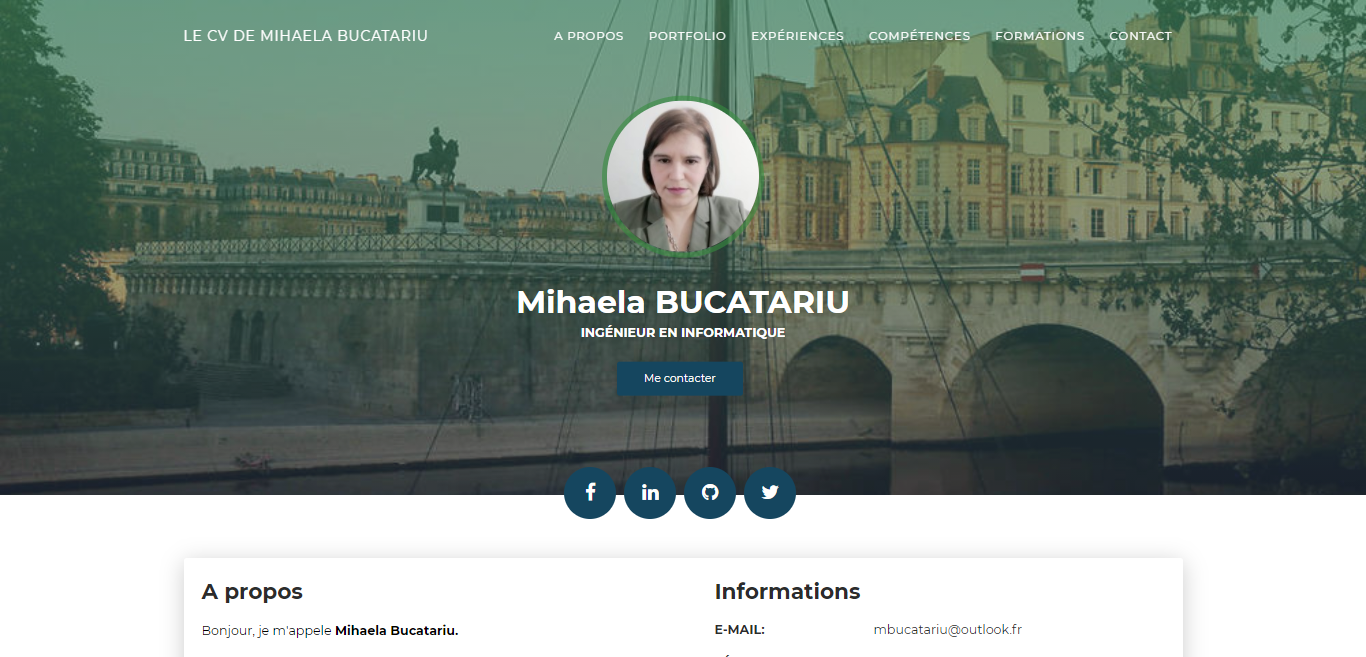
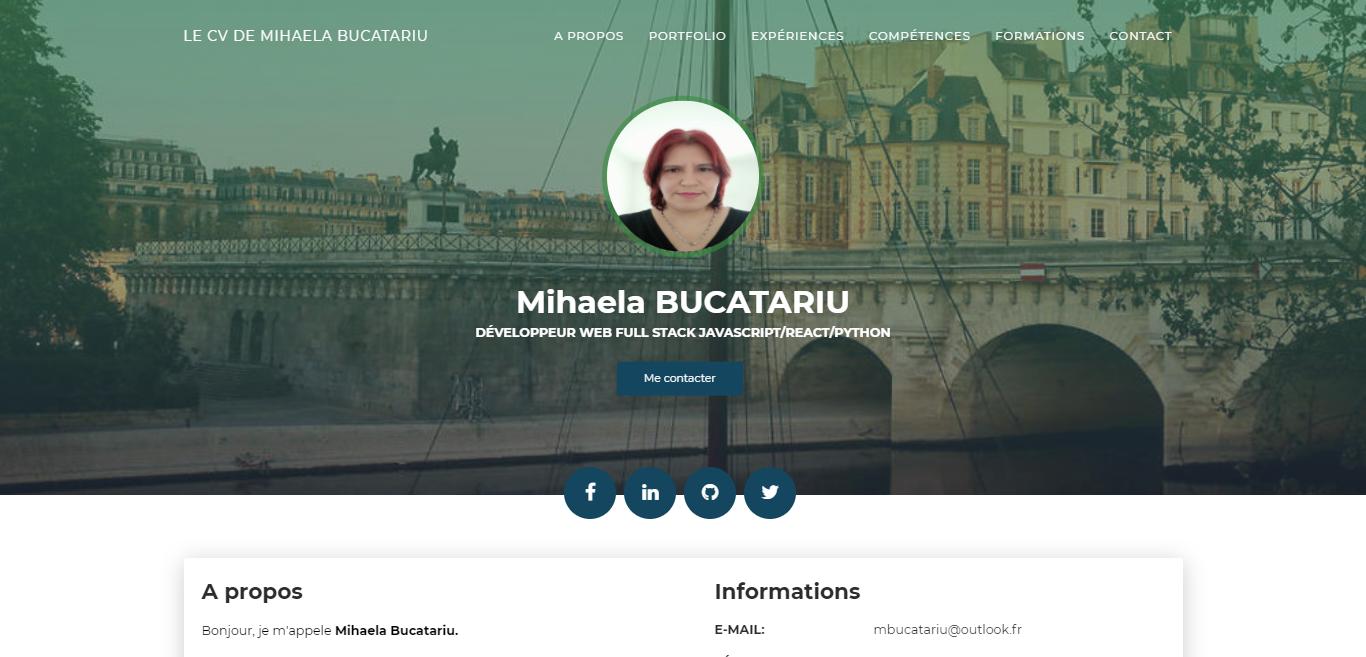
Version 2

diff --git a/src/app/profile/mock-experiences.ts b/src/app/profile/mock-experiences.ts
@@ -1,46 +1,34 @@
 import { Experience } from './experience';
 
 export const EXPERIENCES: Experience[] = [
-  { period: "Mai 2020 à octobre 2020 ",
-    societe: "Independent",
-    job: "Independent",
+  { period: "Mai 2020 à novrmbre 2020 ",
+    societe: "Indépendant",
+    job: "Indépendant",
     description:
-    `J'ai travaillé indépendamment et je me suis autoformé sur des sujets variés comme:
-    Le développement Web avec le framework Django en langage Python.
-    Le développement Web Full-Stack JavaScript
-    Le langage C++ Moderne (C++11/14/17)
-    Les Fondements du Cloud Computing (Amazon Web Services AWS)
-    Le big data avec Hadoop
-    La conteneurisation (Docker)
-    J'ai suivi des tutoriels et des cours de e-learning sur les plateformes de Udemy, LinkedIn Learning, OpenClassrooms et AWS Training.
-    Développeur Web fullstack Python, framework Django
-    Développement d'une application Web fullstack Python (en cours).
-    Entraînement en Python sur CodingGame.com
-    Environnement :
-    Python/ Django/ Pandas/ Numpy
-    PyCharm
-    Anaconda
-    Jupyter Notebook
-    Visual Studio Code
-    Développeur Web Full-Stack JavaScript - MEAN stack
-    Développement Full-Stack d'une site Web (en cours)
-    Côté backend
-    Express
-    Node.js
-    MongoDB
-    API Rest, tests avec Postman
-    Déploiement sur Heroku
-    Côté frontend
-    Angular 9
-    Bootstrap 4
-    HTML5, CSS3
+    `
+    * Développeur Web full stack JavaScript-MERN stack
+    * Développement full-stack d'une site Web: AlbumPhoto. L'application permet la visualisation d'une collection des photos, et la mise à jour de la collection (ajout, suppression, modification). Elle est basée sur React et des API Rest avec Node.js (opérations CRUD). Les routes sont sécurisées avec Auth0/JWT (en cours).
+    Technologies utilisées :
+    Côté backend : Node.js, Express, Mongoose, MongoDB
+    Import des images avec Multer
+    Authentification avec Auth0 JWT
+    Tests avec Postman
+    Côté frontend : React, Bootstrap4, HTML5, CSS3
+    Autoformation en ligne sur JavaScript, React, Node.js.
+    Lien GitHub: https://github.com/mike507/card-javascript-fullstack-app
 
-    AWS cloud computing enthusiast
-    J’ai suivi en anglais, en ligne sur AWS Training et LinkedIn, des modules sur:
-    AWS Cloud Practitioner Essentials: AWSSecurity, AWS Core Services, AWS Architecture
-    AWS EC2, Amazon ECS, DynamoDB, Amazon SNS, Amazon SQS, AWS Fargate
-    J’ai participé au webinar AWS Cloud Practitioner Essentials Day
-    Je me suis créé un compte AWS Console et j'ai me suis entrainé à l'utilisation des services AWS.
+    * Développement de mon site Web Portfolio, avec Angular et déployé avec GitHub Pages,
+    Live sur: https://mike507.github.io/Mihaela-Personal-Portofolio-Angular
+    Lien GitHub: https://github.com/mike507/card-javascript-fullstack-app
+
+    * Développeur Python
+    Entraînement en Python sur CodingGame.com
+    Autoformation en ligne
+    Environnement :
+    Python, PyCharm, Anaconda, Jupyter Notebooks, Visual Studio Code
+
+    * AWS cloud computing enthousiaste
+    J’ai suivi en anglais, en ligne, sur Udemy et AWS Training and Certifications, des modules sur AWS Cloud Practitioner Essentials: AWSSecurity, AWS Core Services, AWS Architecture.
     ` },
 
     { period: "Mars 2020 à avril 2020",

diff --git a/src/app/profile/about/about.component.html b/src/app/profile/about/about.component.html
@@ -6,22 +6,34 @@
             <div class="card-body">
               <div class="h4 mt-0 title">A propos</div>
               <p>Bonjour, je m'appele <strong>Mihaela Bucatariu.</strong></p>
-              <p>Je suis ingénieur informaticien à l'écoute des opportunités du marché</p>
-
+              <p>Je suis de formation ingénieur en informatique, j'ai de l'expérience en C++ et SQL.</p>
               <p>
-                Je suis quelqu’un passionnée par l’informatique et par les dernières évolutions technologiques.
-                J'ai 16 ans d'expérience en développement de logiciel (en C++ et bases de données Oracle PL/SQL).
+                En 2019, j'ai décidé de me spécialiser en développement Web, par auto-formation. J'ai suivi des formations en ligne sur Udemy et LinkedIn Learning.
               </p>
-              <p> Ma curiosité naturelle m’a déterminé à étudier en ligne des sujets variés comme:</p>
+              <p>
+                J'ai réalisé deux applications Web : AlbumPhoto: application full stack JavaScript, basée sur React et NodeJs et PersonalPortfolio, une application type curriculum-vitae, réalisé avec Angular. Elles sont disponibles sur mon compte GitHub et des démonstrations vidéo peuvent être visionnées sur ma chaine YouTube.
+              </p>
+              <p>
+                GitHub: https://github.com/mike507
+              </p>
               <ul>
-
-                <li>le développement Web avec le framework Django (et le langage Python)</li>
-                <li>le développement Web Full-Stack JavaScript (MEAN stack: MongoDB, Express.js, Node.js, Angular)</li>
-                <li>le cloud computing avec Amazon Web Services (AWS)</li>
-                <li>le big data avec Hadoop et Apache Spark</li>
+                <li>
+                  <p>
+                    AlbumPhoto: https://github.com/mike507/card-javascript-fullstack-app
+                  </p>
+                  <p>
+                    https://youtu.be/RA27bj7DXAQ
+                  </p>
+                </li>
+                <li>
+                  <p>
+                    PersonalPortfolio: https://github.com/mike507/personal-portofolio
+                  </p>
+                  <p>
+                    https://youtu.be/XPEM_3zRZJ0
+                  </p>
+                </li>
               </ul>
-              <p>J’ai utilisé les plateformes de LinkedIn Learning, Udemy, Openclassrooms et AWS training and certifications.</p>
-
             </div>
           </div>
           <div class="col-lg-6 col-md-12">

diff --git a/src/app/profile/mock-skills.ts b/src/app/profile/mock-skills.ts
@@ -17,11 +17,12 @@ export const HEROES: Hero[] = [
 import { Skill } from './skill';
 
 export const SKILLS: Skill[] = [
-  { type: "Langages de programmation", list: ["Python",
+  { type: "Langages de programmation", list: [
     "JavaScript (ES6+)",
     "Node.js",
     "HTML5",
     "CSS3",
+    "Python",
     "C/C++/C++11"
     ] },
     { type: "IDE et Tools :", list: [
@@ -33,10 +34,9 @@ export const SKILLS: Skill[] = [
       "Oracle SQL Developer",
       "Jira"
     ]},
-    { type: "Framework :", list:["Django3",
+    { type: "Framework :", list:["React",
     "Express",
-    "Angular 9",
-    "MFC",
+    "Angular 9"
     ]},
     {
       type: "Systèmes d'exploitation :", list:["Microsoft Windows 10",
@@ -50,7 +50,7 @@ export const SKILLS: Skill[] = [
       type:"Méthodologies  :", list:["Agile@Scale"
     ]},
     {
-      type: "Bases de données :", list:["SQL : Oracle, Oracle PL/SQL",
+      type: "Bases de données :", list:["SQL : Oracle, Oracle PL/SQL, MySQL, PostgreSQL",
       "NoSQL: MongoDB"
     ]}
   ];

diff --git a/src/app/profile/portfolio/portfolio.component.html b/src/app/profile/portfolio/portfolio.component.html
@@ -22,7 +22,7 @@
               <div class="col-md-6">
                 <div class="cc-porfolio-image img-raised" data-aos="fade-up" data-aos-anchor-placement="top-bottom">
                   <!-- <a href="https://mike507.github.io/Mihaela-Personal-Portofolio-Angular"> -->
-                    <a href="https://youtu.be/XPEM_3zRZJ0">
+                    <a href="https://youtu.be/QObi-vNAXuE">
                     <figure class="cc-effect">
                       <img src="assets/images/portfolio1.png" alt="Image" />
                       <figcaption>
@@ -35,7 +35,7 @@
               </div>
               <div class="col-md-6">
                 <div class="cc-porfolio-image img-raised" data-aos="fade-up" data-aos-anchor-placement="top-bottom">
-                  <a href="https://youtu.be/RK9yiP5tzKo">
+                  <a href="https://youtu.be/RA27bj7DXAQ">
                     <figure class="cc-effect">
                       <img src="assets/images/portfolio2.png" alt="Image" />
                       <figcaption>

diff --git a/src/app/profile/intro/intro.component.html b/src/app/profile/intro/intro.component.html
@@ -11,18 +11,8 @@
               </a>
             </div>
             <div class="h2 title">Mihaela BUCATARIU</div>
-            <p class="category text-white">Ingénieur en informatique</p>
-<!--
-            <a class="btn btn-primary smooth-scroll mr-2" href="#contact" data-aos="zoom-in"
-              data-aos-anchor="data-aos-anchor">Me contacter</a>
--->
-<!--
-              <a class="btn btn-primary"
-              href="https://drive.google.com/open?id=1uy3Afn8RI9dLkc3d9YuOCFozdhX4LWPb" target="_blank"
-              data-aos="zoom-in" data-aos-anchor="data-aos-anchor">Télécharger CV</a>
--->
+            <p class="category text-white">Développeur Web full stack JavaScript/React/Python</p>
             <a class="btn btn-primary smooth-scroll mr-2" href="#contact">Me contacter</a>
-
             </div>
         </div>
         <div class="section">

diff --git a/src/app/profile/mock-formations.ts b/src/app/profile/mock-formations.ts
@@ -9,7 +9,7 @@ export const FORMATIONS: Formation[] = [
     Polytechnique de Bucarest, la Faculté d'Automatique et Ordinateurs`
   },
   { diplome: "The Complete Web Development Bootcamp",
-  period: "Avril 2020 à décembre 2020 ",
+  period: "Avril 2020 à novembre 2020 ",
   ecole: "Udemy",
   description:
   `Compétences acquises : Développement Web, Javascript, React, HTML, CSS, Bootstrap, NodeJs, MongoDB
